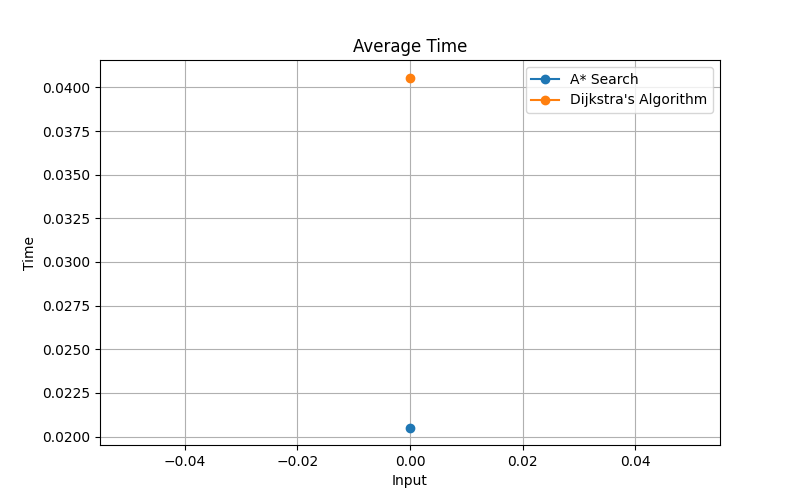
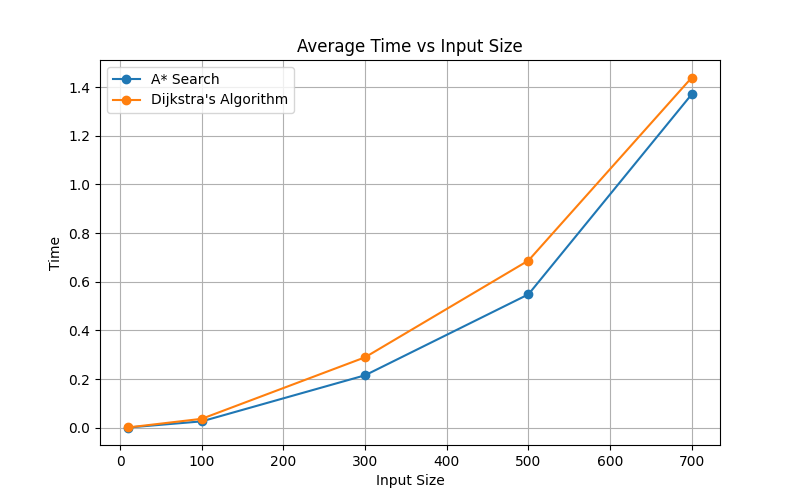
analyzy Astar with dijtra 2

diff --git a/AStar.py b/AStar.py
@@ -1,33 +1,27 @@
 import heapq
 from typing import List, Tuple
-from boardCenter import board
 from boardCenter import generateBoard
 from Cell import Cell
 
 def is_valid(row, col, ROW, COL):
     return 0 <= row < ROW and 0 <= col < COL
 
-# Check if a cell is unblocked
 def is_unblocked(grid: List[List[Cell]], row: int, col: int):
     return grid[row][col].status == 1
 
-# Check if a cell is the destination
 def is_destination(row, col, dest):
     return row == dest[0] and col == dest[1]
 
-# Calculate the heuristic value of a cell (Euclidean distance to destination)
 def calculate_h_value(row, col, dest):
-  row_diff = abs(row - dest[0])
-  col_diff = abs(col - dest[1])
-  return row_diff + col_diff
+    row_diff = abs(row - dest[0])
+    col_diff = abs(col - dest[1])
+    return row_diff + col_diff
 
-# Trace the path from source to destination
 def trace_path(cell_details, dest):
     path = []
     row = dest[0]
     col = dest[1]
 
-    # Trace the path from destination to source using parent cells
     while not (cell_details[row][col].parent_i == row and cell_details[row][col].parent_j == col):
         path.append((row, col))
         temp_row = cell_details[row][col].parent_i
@@ -35,106 +29,66 @@ def trace_path(cell_details, dest):
         row = temp_row
         col = temp_col
 
-    # Add the source cell to the path
     path.append((row, col))
-    # Reverse the path to get the path from source to destination
     path.reverse()
 
     return path
-
-def trace_path(cell_details, dest):
-    path = []
-    row = dest[0]
-    col = dest[1]
-
-    # Trace the path from destination to source using parent cells
-    while not (cell_details[row][col].parent_i == row and cell_details[row][col].parent_j == col):
-        path.append((row, col))
-        temp_row = cell_details[row][col].parent_i
-        temp_col = cell_details[row][col].parent_j
-        row = temp_row
-        col = temp_col
-
-    # Add the source cell to the path
-    path.append((row, col))
-    # Reverse the path to get the path from source to destination
-    path.reverse()
-
-    return path
-
 
 def a_star_search(grid: List[List[Cell]], src, dest, directions: List[Tuple[int, int]] = [(0, 1), (0, -1), (-1, 0)]):
     ROW = len(grid)
     COL = len(grid[0])
-    # Check if the source and destination are valid
-    if not is_valid(src[0], src[1], ROW= ROW, COL= COL) or not is_valid(dest[0], dest[1], ROW= ROW, COL= COL):
+
+    if not is_valid(src[0], src[1], ROW=ROW, COL=COL) or not is_valid(dest[0], dest[1], ROW=ROW, COL=COL):
         print("Source or destination is invalid")
         return
 
-    # Check if the source and destination are unblocked
     if not is_unblocked(grid, src[0], src[1]) or not is_unblocked(grid, dest[0], dest[1]):
         print("Source or the destination is blocked")
         return
 
-    # Check if we are already at the destination
     if is_destination(src[0], src[1], dest):
         print("We are already at the destination")
         return
 
-    # Initialize the closed list (visited cells)
     closed_list = [[False for _ in range(COL)] for _ in range(ROW)]
-    # Initialize the details of each cell
     cell_details = [[Cell() for _ in range(COL)] for _ in range(ROW)]
 
-    # Initialize the start cell details
     i = src[0]
     j = src[1]
-    cell_details[i][j].f = 0
-    cell_details[i][j].g = 0
-    cell_details[i][j].h = 0
+    cell_details[i][j].f = float('inf')  # Correct initialization
+    cell_details[i][j].g = float('inf')  # Correct initialization
+    cell_details[i][j].h = float('inf')  # Correct initialization
     cell_details[i][j].parent_i = i
     cell_details[i][j].parent_j = j
 
-    # Initialize the open list (cells to be visited) with the start cell
     open_list = []
     heapq.heappush(open_list, (0.0, i, j))
 
-    # Main loop of A* search algorithm
     while len(open_list) > 0:
-        # Pop the cell with the smallest f value from the open list
         p = heapq.heappop(open_list)
 
-        # Mark the cell as visited
         i = p[1]
         j = p[2]
         closed_list[i][j] = True
-        # For each direction, check the successors
+
         for dir in directions:
             new_i = i + dir[0]
             new_j = j + dir[1]
 
-            # If the successor is valid, unblocked, and not visited
             if is_valid(new_i, new_j, ROW, COL) and is_unblocked(grid, new_i, new_j) and not closed_list[new_i][new_j]:
-                # If the successor is the destination
                 if is_destination(new_i, new_j, dest):
-                    # Set the parent of the destination cell
                     cell_details[new_i][new_j].parent_i = i
                     cell_details[new_i][new_j].parent_j = j
                     print("The destination cell is found")
-                    # Trace and print the path from source to destination
                     path = trace_path(cell_details, dest)
                     return path
                 else:
-                    # Calculate the new f, g, and h values
                     g_new = cell_details[i][j].g + 1.0
                     h_new = calculate_h_value(new_i, new_j, dest)
                     f_new = g_new + h_new
 
-                    # If the cell is not in the open list or the new f value is smaller
                     if cell_details[new_i][new_j].f == float('inf') or cell_details[new_i][new_j].f > f_new:
-                        # Add the cell to the open list
                         heapq.heappush(open_list, (f_new, new_i, new_j))
-                        # Update the cell details
                         cell_details[new_i][new_j].f = f_new
                         cell_details[new_i][new_j].g = g_new
                         cell_details[new_i][new_j].h = h_new
@@ -143,13 +97,9 @@ def a_star_search(grid: List[List[Cell]], src, dest, directions: List[Tuple[int,
 
     print("Failed to find the destination cell")
     return None
-    # If the destination is not found after visiting all cells
 
-# Test the A* search algorithm
-
-# Define the grid
+# # Test the A* search algorithm
 # grid = generateBoard(90) 
-
 # import time
 # start_time = time.time()
 # a_star_search(grid, (63, 0), (0, 0))

diff --git a/analyze.py b/analyze.py
@@ -9,7 +9,7 @@ def get_memory_usage():
     return resource.getrusage(resource.RUSAGE_SELF).ru_maxrss / 1024  # Convert to MB
 
 def analyze_algorithms():
-    input_sizes = [10, 100, 1000, 2000, 5000]
+    input_sizes = [10, 100, 300, 500, 700]
     a_star_time_avg = []
     a_star_steps_avg = []
     a_star_memory_avg = []
@@ -18,48 +18,54 @@ def analyze_algorithms():
     dijkstra_steps_avg = []
     dijkstra_memory_avg = []
 
-    for size in input_sizes:
-        grid = generateBoard(size)
-        src_dest_pairs = [(generate_random_cell(grid), generate_random_cell(grid)) for _ in range(10)]  # Generate 10 random pairs
-        
-        a_star_time = []
-        a_star_steps = []
-        a_star_memory = []
+    with open('algorithm_data.txt', 'w') as file:
+        file.write('Input Size,A* Time Avg,A* Steps Avg,A* Memory Avg,Dijkstra Time Avg,Dijkstra Steps Avg,Dijkstra Memory Avg\n')
 
-        dijkstra_time = []
-        dijkstra_steps = []
-        dijkstra_memory = []
+        for size in input_sizes:
+            grid = generateBoard(size)
+            src_dest_pairs = [(generate_random_cell(grid), generate_random_cell(grid)) for _ in range(10)]  # Generate 10 random pairs
+            a_star_time = []
+            a_star_steps = []
+            a_star_memory = []
 
-        for src, dest in src_dest_pairs:
-            start_time = time.time()
-            a_star_path = a_star_search(grid, src, dest)
-            a_star_time.append(time.time() - start_time)
-            if a_star_path:
-                a_star_steps.append(len(a_star_path))
-                a_star_memory.append(get_memory_usage())
-            
-            start_time = time.time()
-            dijkstra_path = dijkstra_search(grid, src, dest)
-            dijkstra_time.append(time.time() - start_time)
-            if dijkstra_path:
-                dijkstra_steps.append(len(dijkstra_path))
-                dijkstra_memory.append(get_memory_usage())
+            dijkstra_time = []
+            dijkstra_steps = []
+            dijkstra_memory = []
 
-        # Calculate averages
-        a_star_time_avg.append(sum(a_star_time) / len(a_star_time))
-        a_star_steps_avg.append(sum(a_star_steps) / len(a_star_steps))
-        a_star_memory_avg.append(sum(a_star_memory) / len(a_star_memory))
+            for src, dest in src_dest_pairs:
+                start_time = time.time()
+                a_star_path = a_star_search(grid, src, dest)
+                if a_star_path is None:
+                    continue
+                a_star_time.append(time.time() - start_time)
+                start_time = time.time()
+                dijkstra_path = dijkstra_search(grid, src, dest)
+                if dijkstra_path is None:
+                    continue
+                dijkstra_time.append(time.time() - start_time)
+                if dijkstra_path and a_star_path:
+                    a_star_steps.append(len(a_star_path))
+                    a_star_memory.append(get_memory_usage())
+                    dijkstra_steps.append(len(dijkstra_path))
+                    dijkstra_memory.append(get_memory_usage())
 
-        dijkstra_time_avg.append(sum(dijkstra_time) / len(dijkstra_time))
-        dijkstra_steps_avg.append(sum(dijkstra_steps) / len(dijkstra_steps))
-        dijkstra_memory_avg.append(sum(dijkstra_memory) / len(dijkstra_memory))
+            a_star_time_avg.append(sum(a_star_time) / len(a_star_time) if a_star_time else 0)
+            a_star_steps_avg.append(sum(a_star_steps) / len(a_star_steps) if a_star_steps else 0)
+            a_star_memory_avg.append(sum(a_star_memory) / len(a_star_memory) if a_star_memory else 0)
+
+            dijkstra_time_avg.append(sum(dijkstra_time) / len(dijkstra_time) if dijkstra_time else 0)
+            dijkstra_steps_avg.append(sum(dijkstra_steps) / len(dijkstra_steps) if dijkstra_steps else 0)
+            dijkstra_memory_avg.append(sum(dijkstra_memory) / len(dijkstra_memory) if dijkstra_memory else 0)
+
+            file.write(f'{size},{a_star_time_avg[-1]},{a_star_steps_avg[-1]},{a_star_memory_avg[-1]},'
+                       f'{dijkstra_time_avg[-1]},{dijkstra_steps_avg[-1]},{dijkstra_memory_avg[-1]}\n')
 
     plot_statistics(a_star_time_avg, dijkstra_time_avg, 'Time')
     plot_statistics(a_star_steps_avg, dijkstra_steps_avg, 'Steps')
     plot_statistics(a_star_memory_avg, dijkstra_memory_avg, 'Memory')
 
 def plot_statistics(a_star_values, dijkstra_values, title):
-    input_sizes = [10, 100, 1000, 2000, 5000]
+    input_sizes = [10, 100, 300, 500, 700]
     plt.figure(figsize=(8, 5))
     plt.plot(input_sizes, a_star_values, label='A* Search', marker='o')
     plt.plot(input_sizes, dijkstra_values, label="Dijkstra's Algorithm", marker='o')

diff --git a/dijkstra.py b/dijkstra.py
@@ -1,9 +1,7 @@
 import heapq
 from typing import List, Tuple
-from boardCenter import board
 from boardCenter import generateBoard
 from Cell import Cell
-
 def is_valid(row, col, ROW, COL):
     return 0 <= row < ROW and 0 <= col < COL
 
@@ -39,8 +37,9 @@ def trace_path(cell_details, dest):
 def dijkstra_search(grid: List[List[Cell]], src, dest, directions: List[Tuple[int, int]] = [(0, 1), (0, -1), (-1, 0)]):
     ROW = len(grid)
     COL = len(grid[0])
+
     # Check if the source and destination are valid
-    if not is_valid(src[0], src[1], ROW= ROW, COL= COL) or not is_valid(dest[0], dest[1], ROW= ROW, COL= COL):
+    if not is_valid(src[0], src[1], ROW=ROW, COL=COL) or not is_valid(dest[0], dest[1], ROW=ROW, COL=COL):
         print("Source or destination is invalid")
         return
 
@@ -62,7 +61,13 @@ def dijkstra_search(grid: List[List[Cell]], src, dest, directions: List[Tuple[in
     # Initialize the start cell details
     i = src[0]
     j = src[1]
-    cell_details[i][j].g = 0
+
+    # Initialize all cell g values to infinity
+    for row in range(ROW):
+        for col in range(COL):
+            cell_details[row][col].g = float('inf')
+
+    cell_details[i][j].g = 0  # Set source cell g value to 0
     cell_details[i][j].parent_i = i
     cell_details[i][j].parent_j = j
 
@@ -79,6 +84,7 @@ def dijkstra_search(grid: List[List[Cell]], src, dest, directions: List[Tuple[in
         i = p[1]
         j = p[2]
         closed_list[i][j] = True
+
         # For each direction, check the successors
         for dir in directions:
             new_i = i + dir[0]
@@ -110,9 +116,10 @@ def dijkstra_search(grid: List[List[Cell]], src, dest, directions: List[Tuple[in
 
     print("Failed to find the destination cell")
     return None
+
 # Test the Dijkstra's search algorithm
 
-# # Define the grid
+# Define the grid
 # grid = generateBoard(90)
 
 # import time

diff --git a/boardCenter.py b/boardCenter.py
@@ -37,8 +37,8 @@ def generateBoard(size):
   board: List[List[Cell]] = [[0 for _ in range(size)] for _ in range(size)]
   for i in range(size):
     for j in range(size):
-      randomStatus = randint(0, 1)
+      randomStatus = 1
       cell = Cell()
-      cell.status = 1
+      cell.status = randomStatus
       board[i][j] = cell
   return board
